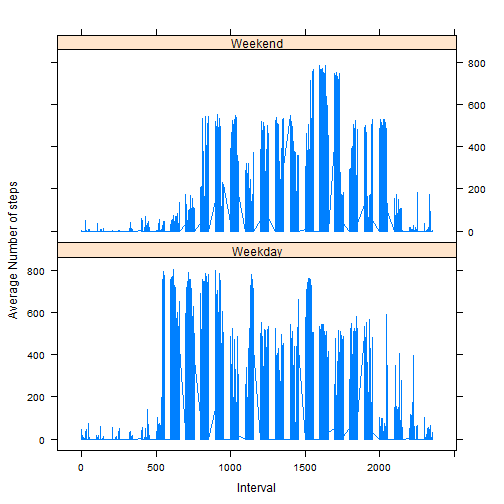
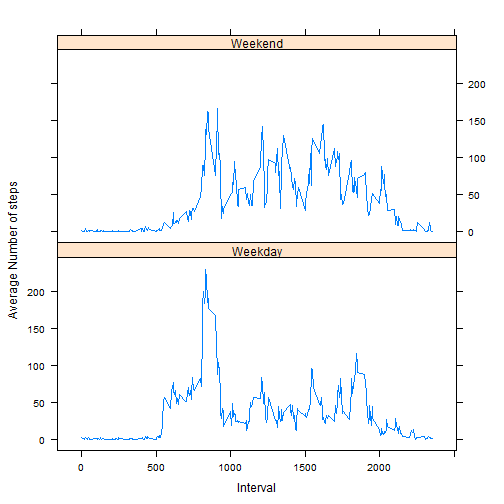
fixing md and rmd final panel plot

diff --git a/PA1_template.html b/PA1_template.html
@@ -148,8 +148,8 @@ wd_mspi &lt;- aggregate(dat3$steps, by = list(interval = dat3$interval, part_of_
 
 library(lattice)
 
-xyplot(steps ~ interval| weekend_weekday, data = dat3, type = &quot;l&quot;, xlab = &quot;Interval&quot;, ylab = &quot;Average Number of steps&quot;, layout=c(1,2))</code></pre>
[1 lines of base64/hex data omitted]
+xyplot(x ~ interval| part_of_week, data = wd_mspi, type = &quot;l&quot;, xlab = &quot;Interval&quot;, ylab = &quot;Average Number of steps&quot;, layout=c(1,2))</code></pre>
[1 lines of base64/hex data omitted]
 </div>
 
 
